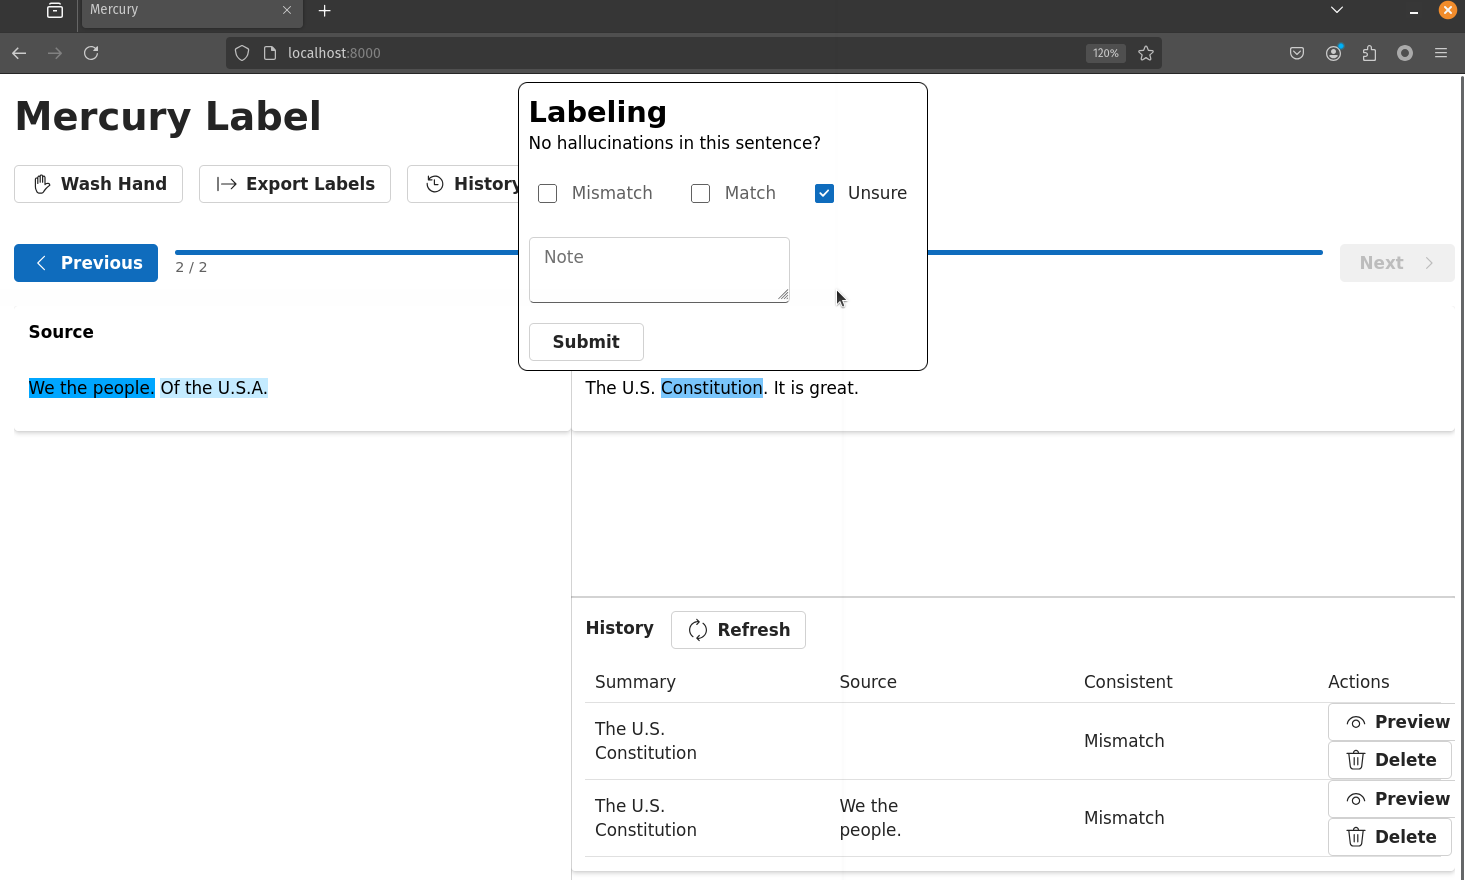
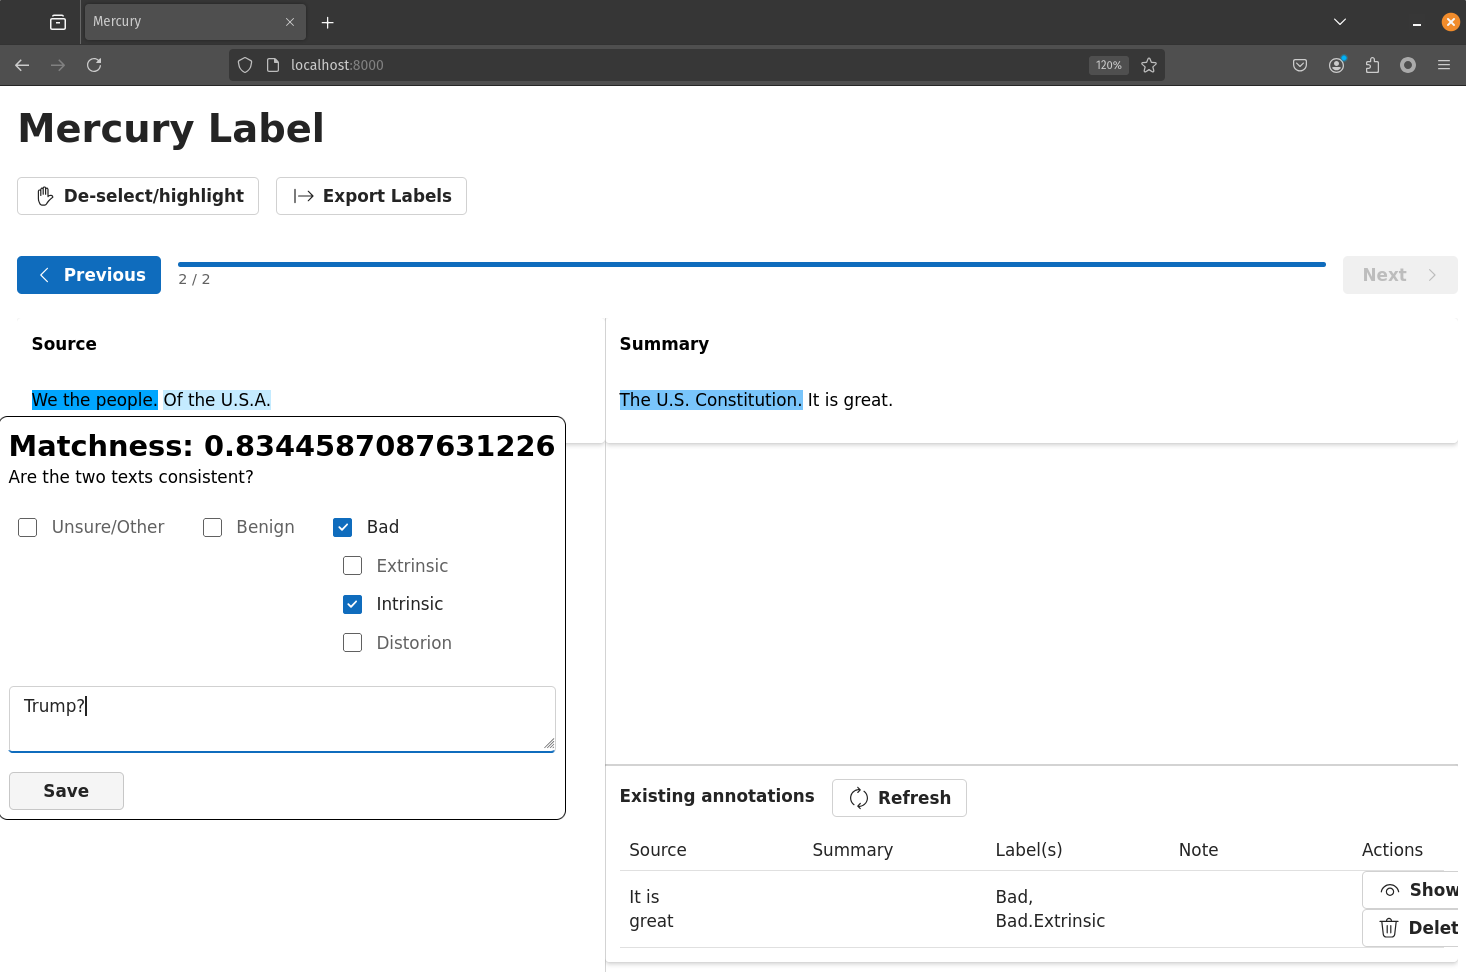
update UI and take new screenshot

diff --git a/app/page.tsx b/app/page.tsx
@@ -287,7 +287,7 @@ export default function Index() {
             })
             updateHistory()
           }}
-          message="No hallucinations in this sentence?"
+          message="Check all types that apply."
         />
       ) : (
         <Text
@@ -411,19 +411,19 @@ export default function Index() {
       >
         {JSON.stringify(firstRange) === "[-1,-1]" || viewingRecord != null ? (
           <Button appearance="primary" icon={<HandRightRegular />} onClick={washHand}>
-            Wash Hand
+            De-select/highlight
           </Button>
         ) : (
           <Button icon={<HandRightRegular />} onClick={washHand}>
-            Wash Hand
+            De-select/highlight
           </Button>
         )}
         <Button icon={<ArrowExportRegular />} onClick={exportJSON}>
           Export Labels
         </Button>
-        <Link href="/history/" rel="noopener noreferrer" target="_blank">
-          <Button icon={<HistoryRegular />}>History</Button>
-        </Link>
+        {/* <Link href="/history/" rel="noopener noreferrer" target="_blank">
+          <Button icon={<HistoryRegular />}></Button>
+        </Link> */}
         {/* <Button
           icon={<AddRegular />}
           onClick={() => {
@@ -587,7 +587,7 @@ export default function Index() {
                     <CardHeader
                       header={
                         <Body1>
-                          <strong>History</strong>
+                          <strong>Existing annotations</strong>
                           <Button icon={<ArrowSyncRegular />} style={{ marginLeft: "1em" }} onClick={updateHistory}>
                             Refresh
                           </Button>
@@ -600,15 +600,19 @@ export default function Index() {
                       <Table className="column_resize_table">
                         <TableHeader>
                           <TableRow>
-                            <TableHeaderCell key="summary">Summary</TableHeaderCell>
-                            {/* @ts-ignore */}
-                            <ColumnResize id={1} className="columnResizer" />
                             <TableHeaderCell key="source">Source</TableHeaderCell>
                             {/* @ts-ignore */}
-                            <ColumnResize id={2} className="columnResizer" />
-                            <TableHeaderCell key="consistent">Consistent</TableHeaderCell>
+                            <ColumnResize id={1} className="columnResizer" />
+                            <TableHeaderCell key="summary">Summary</TableHeaderCell>
                             {/* @ts-ignore */}
-                            <ColumnResize id={3} className="columnResizer" />
+                            <ColumnResize id={2} className="columnResizer" />
+                            <TableHeaderCell key="consistent">Label(s)</TableHeaderCell>
+                            {/* @ts-ignore */}
+                            <ColumnResize id={3} className="columnResizer" /> 
+                            <TableHeaderCell key="note">Note</TableHeaderCell>
+                            {/* @ts-ignore */}
+                            <ColumnResize id={4} className="columnResizer" /> 
+                            {/* TODO: Display the resizer. Now they are invisible. */}
                             <TableHeaderCell key="actions">Actions</TableHeaderCell>
                           </TableRow>
                         </TableHeader>
@@ -627,6 +631,8 @@ export default function Index() {
                                 <TableCell className="column_resizer_body" />
                                 <TableCell>{record.consistent.join(", ")}</TableCell>
                                 <TableCell className="column_resizer_body" />
+                                <TableCell>{record.note}</TableCell>
+                                <TableCell className="column_resizer_body" />
                                 <TableCell>
                                   {viewingRecord != null && viewingRecord.record_id === record.record_id ? (
                                     <Button icon={<EyeOffRegular />} appearance="primary" onClick={washHand}>
@@ -639,7 +645,7 @@ export default function Index() {
                                         setViewingRecord(record)
                                       }}
                                     >
-                                      Preview
+                                      Show
                                     </Button>
                                   )}
                                   <Button

diff --git a/components/tooltip.tsx b/components/tooltip.tsx
@@ -147,7 +147,7 @@ const Tooltip = (props: {
           }}
           {...getFloatingProps()}
         >
-          {props.score <= 50 ? <Title3>Matchness: {props.score}</Title3> : <Title3>Labeling</Title3>}
+          {props.score <= 50 ? <Title3>Matchness: {props.score}</Title3> : <Title3>Hallucinated?</Title3>}
           <br />
           <Text as="p">{props.message}</Text>
           <br />
@@ -201,6 +201,9 @@ const Tooltip = (props: {
           <br />
           <Textarea 
             resize="both"
+            style={{
+              width: "100%",
+            }}
             placeholder="Note"
             value={note}
             onChange={(_, data) => setNote(data.value)}
@@ -220,7 +223,7 @@ const Tooltip = (props: {
               .then(() => setOpen(false))
             }}
           >
-            Submit
+            Save
           </Button>
         </div>
       )}
